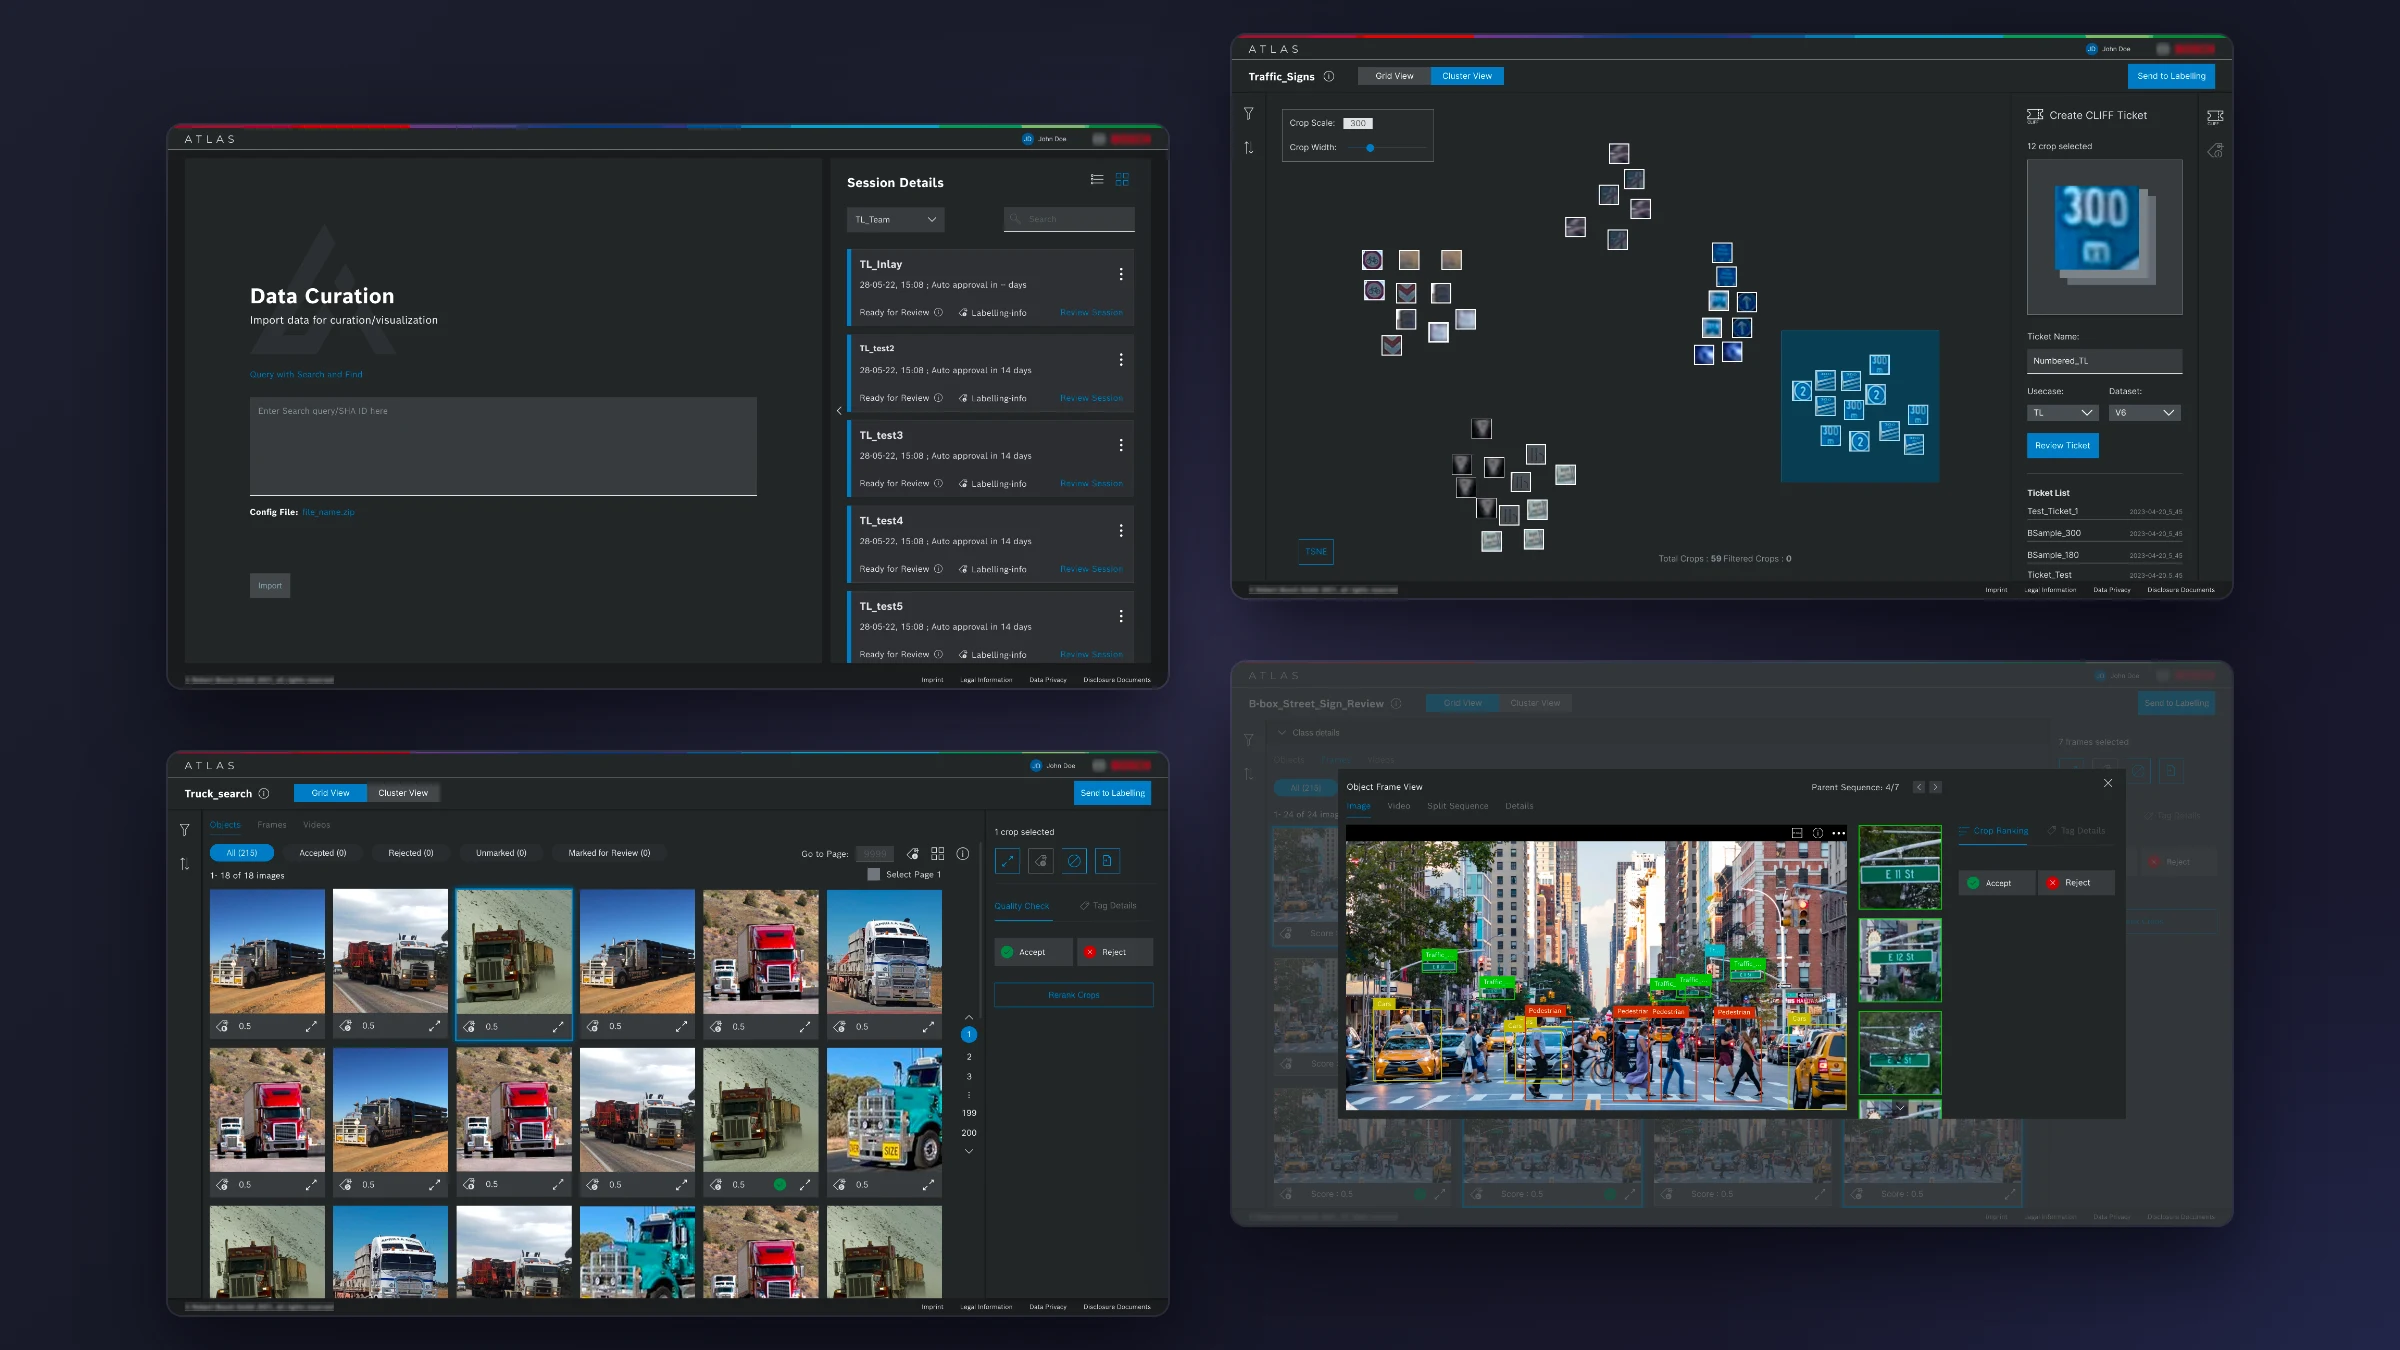
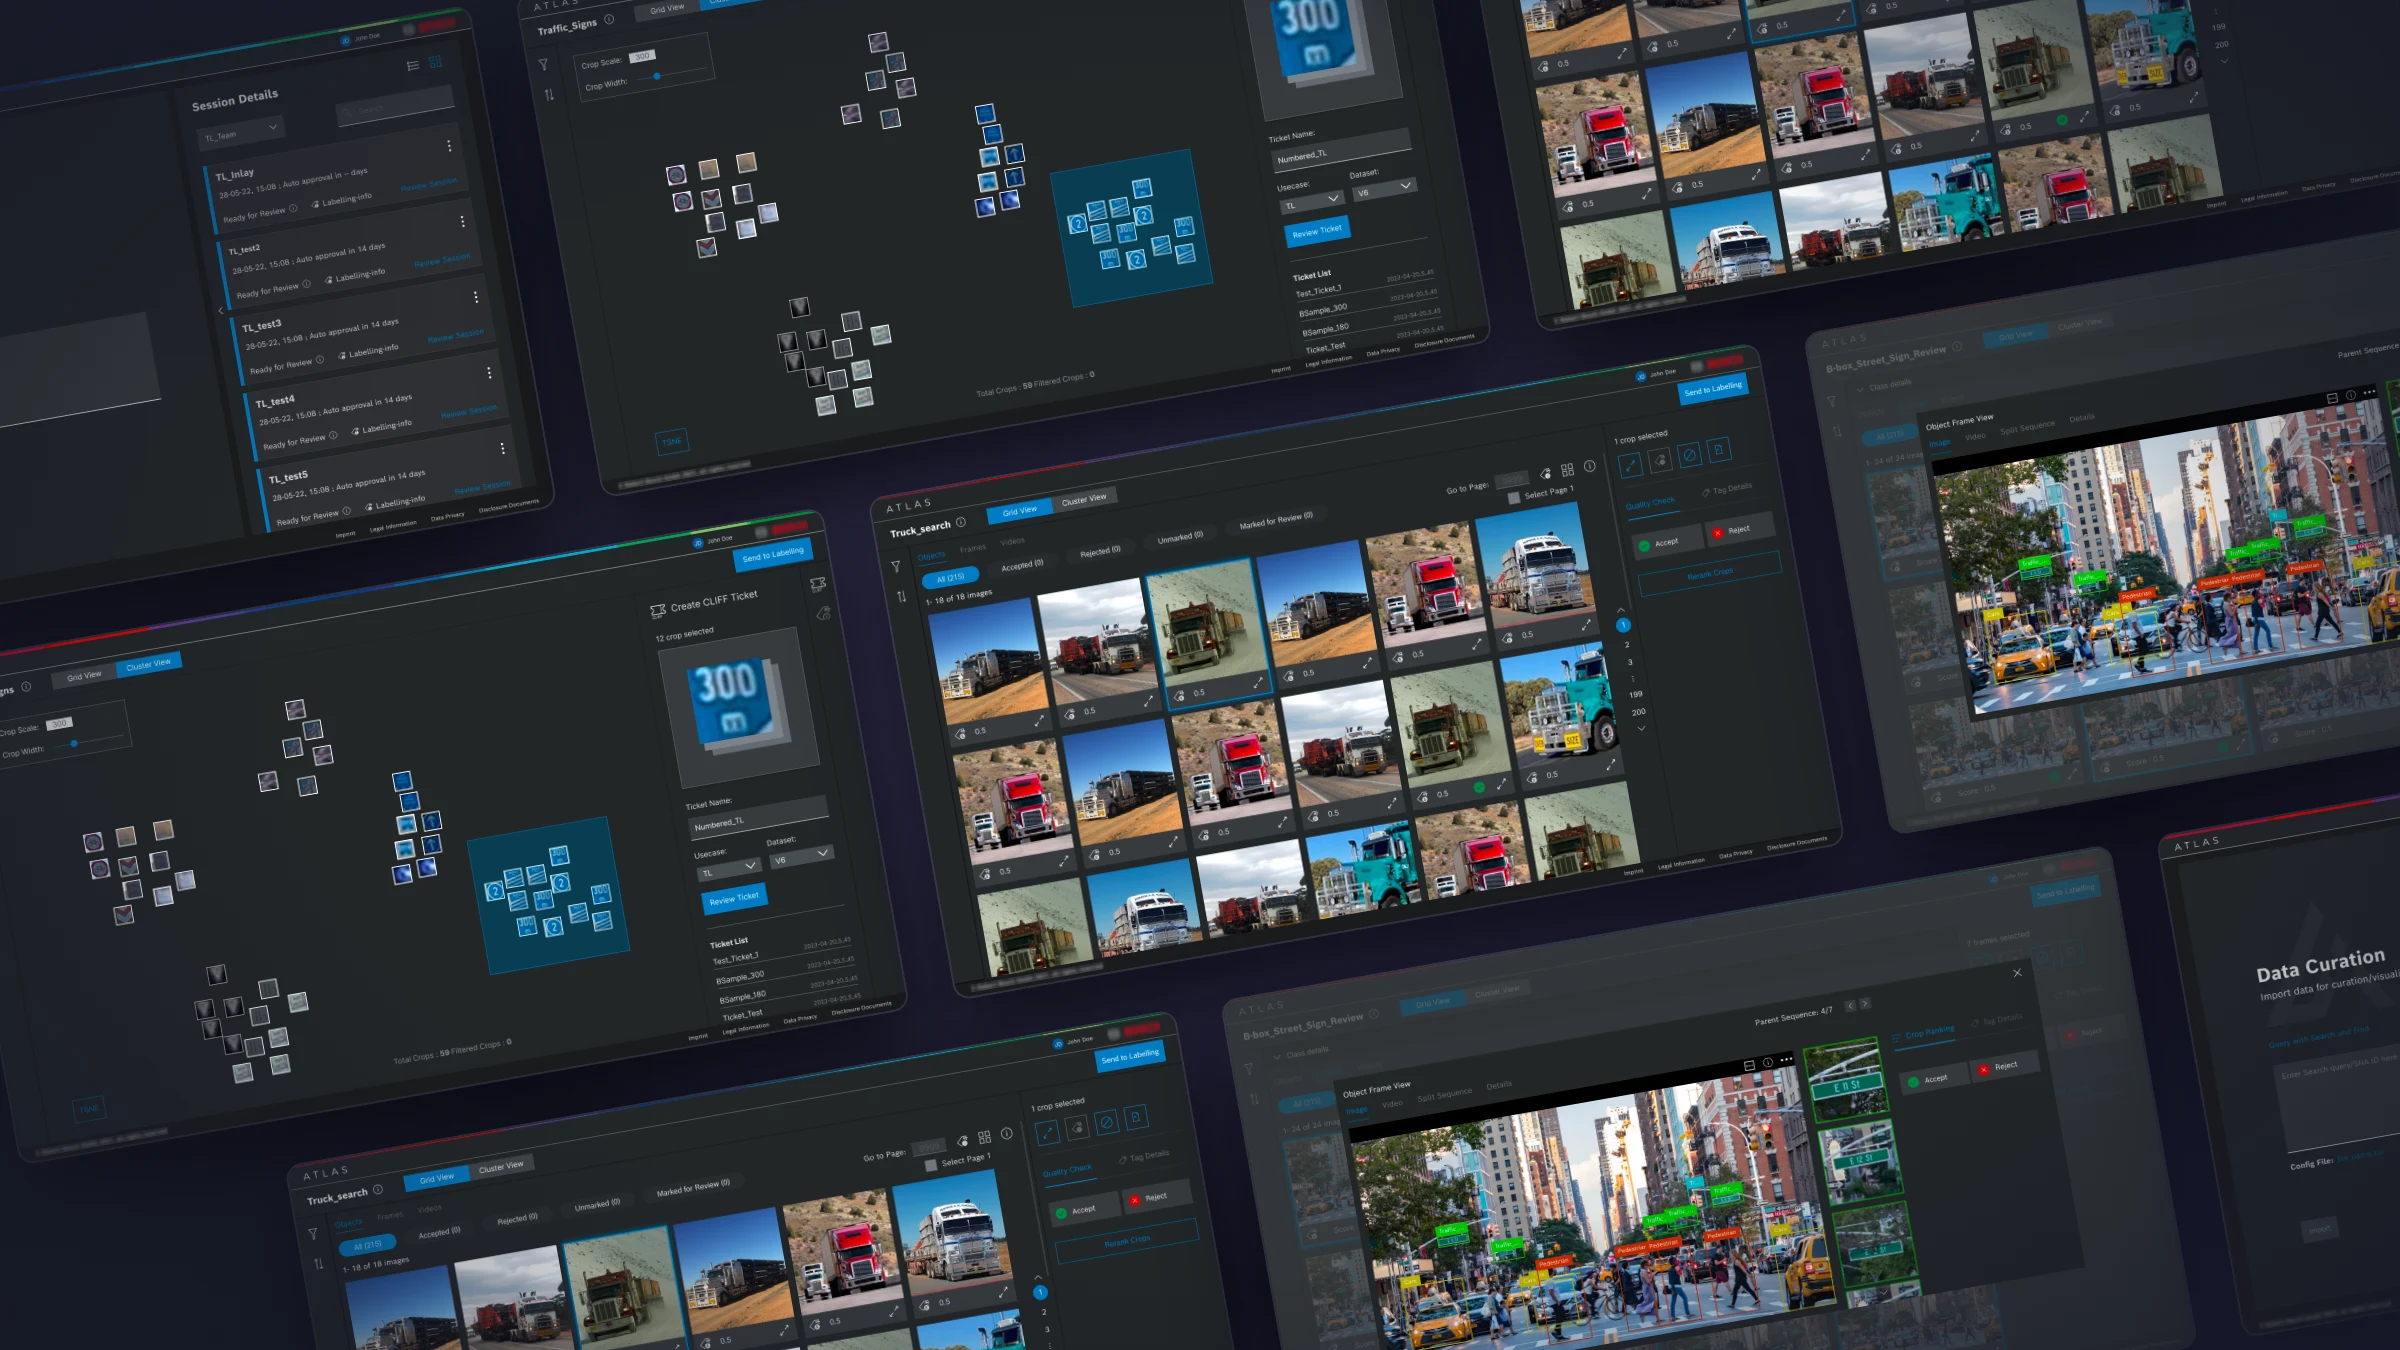
ATLAS cover: tilted mosaic of the four screens, also on the Bosch hub card
Claude-Session: https://claude.ai/code/session_01BUxMADTYnMy5PmcPR4NAT9

diff --git a/projects/bosch-image-data-curation/atlas-image-optimisation/index.html b/projects/bosch-image-data-curation/atlas-image-optimisation/index.html
@@ -79,10 +79,10 @@
     <div><dt class="eyebrow text-mist-500">Users</dt><dd class="mt-2">Labelling experts, model developers, data analysts</dd></div>
   </dl>
 
-  <!-- Cover: four ATLAS screens supplied by Ojasv 2026-11-22. Equal-size staggered 2x2 in workflow order: session, cluster view, grid view, object frame view. Source layout: /mnt/project-files/bosch/atlas-cover-source.html -->
+  <!-- Cover: four ATLAS screens supplied by Ojasv 2026-11-22. Mosaic: the four screens tiled at equal size, turned -10deg and bleeding off the edges (chosen by Ojasv). Source layout: /mnt/project-files/bosch/atlas-cover-source.html -->
   <figure class="mt-16 lg:mt-24">
     <a href="../../../assets/img/projects/bosch-image-data-curation/atlas/cover-2400.webp" class="block cursor-zoom-in overflow-hidden rounded-lg bg-surface ring-1 ring-mist-800" aria-label="View larger: four ATLAS screens">
-      <img src="../../../assets/img/projects/bosch-image-data-curation/atlas/cover-1200.webp" srcset="../../../assets/img/projects/bosch-image-data-curation/atlas/cover-1200.webp 1200w, ../../../assets/img/projects/bosch-image-data-curation/atlas/cover-2400.webp 2400w" sizes="(min-width: 100rem) 100rem, 100vw" width="2400" height="1350" alt="Four ATLAS screens of equal size: the Data Curation page where a session is imported, a cluster view of traffic sign crops with a CLIFF ticket being created, a grid view of truck crops, and the object frame view of a street scene with labelled boxes for traffic signs, cars and pedestrians" class="h-auto w-full">
+      <img src="../../../assets/img/projects/bosch-image-data-curation/atlas/cover-1200.webp" srcset="../../../assets/img/projects/bosch-image-data-curation/atlas/cover-1200.webp 1200w, ../../../assets/img/projects/bosch-image-data-curation/atlas/cover-2400.webp 2400w" sizes="(min-width: 100rem) 100rem, 100vw" width="2400" height="1350" alt="A tilted mosaic of four ATLAS screens, repeated: the Data Curation page where a session is imported, a cluster view of traffic sign crops with a CLIFF ticket being created, a grid view of truck crops, and the object frame view of a street scene with labelled boxes for traffic signs, cars and pedestrians" class="h-auto w-full">
     </a>
     <figcaption class="mt-3 text-xs text-mist-500">ATLAS: import a session, see its crops as clusters, accept or reject them in the grid, and check each one in its original frame.</figcaption>
   </figure>

diff --git a/projects/bosch-image-data-curation/index.html b/projects/bosch-image-data-curation/index.html
@@ -121,7 +121,7 @@
       </article>
       <article class="group">
         <a href="../../projects/bosch-image-data-curation/atlas-image-optimisation/" class="block">
-          <div class="aspect-[4/3] overflow-hidden rounded-lg bg-surface"><img src="../../assets/img/projects/bosch-image-data-curation/atlas/card.webp" width="1600" height="1200" alt="Four ATLAS screens: object frame view, session list, cluster view and grid view" loading="lazy" class="h-full w-full object-cover transition duration-700 ease-tide group-hover:scale-[1.03]"></div>
+          <div class="aspect-[4/3] overflow-hidden rounded-lg bg-surface"><img src="../../assets/img/projects/bosch-image-data-curation/atlas/card.webp" width="1600" height="1200" alt="A tilted mosaic of ATLAS screens: session list, cluster view, grid view and object frame view" loading="lazy" class="h-full w-full object-cover transition duration-700 ease-tide group-hover:scale-[1.03]"></div>
           <p class="eyebrow mt-6 text-mist-400">ATLAS app</p>
           <h2 class="mt-2 slant font-serif text-2xl tracking-tight group-hover:text-accent-300 lg:text-4xl">Image Optimisation Workflow</h2>
           <p class="mt-3 max-w-xl leading-relaxed text-mist-300">Labelled crops plotted as clusters, so people can check labels, catch anomalies and tune filter models.</p>
